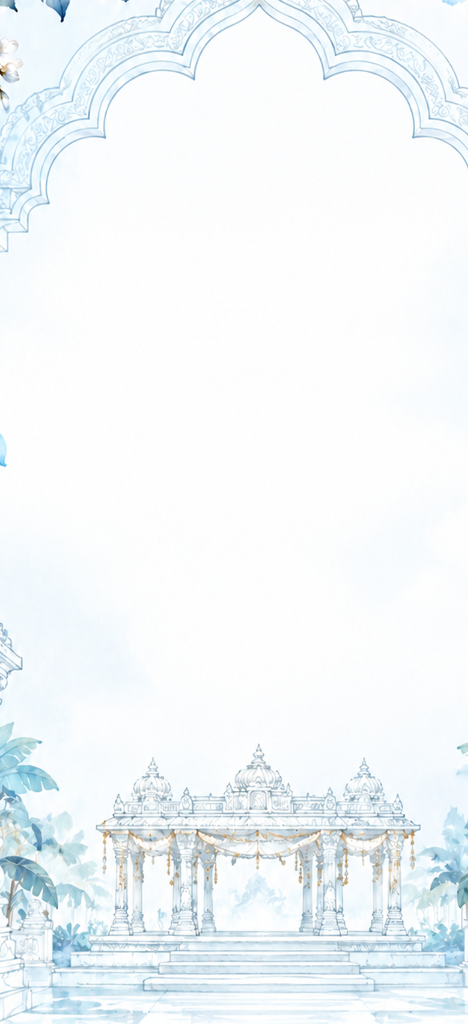
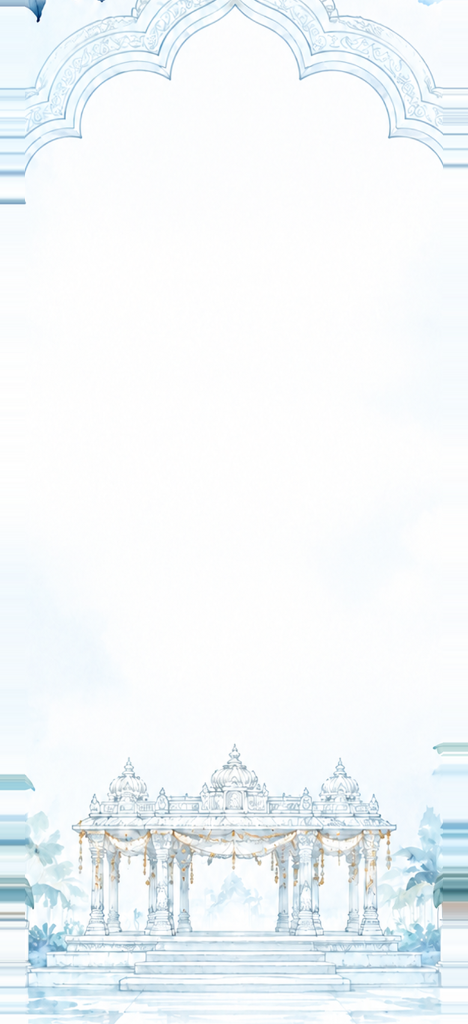
fix: center-align starting background image, elevate hands into middle white space, and position tap button in bottom circle

diff --git a/src/components/IntroFirstPage.tsx b/src/components/IntroFirstPage.tsx
@@ -29,7 +29,7 @@ export const IntroFirstPage: React.FC<IntroFirstPageProps> = ({ onOpen }) => {
         <img
           src="/assets/starting-page-mandap.png"
           alt="Temple Mandap Architecture & Arch"
-          className="w-full h-full object-fill sm:object-cover object-center"
+          className="w-full h-full object-cover object-center"
         />
       </div>
 
@@ -43,8 +43,8 @@ export const IntroFirstPage: React.FC<IntroFirstPageProps> = ({ onOpen }) => {
         <div className="absolute inset-0 bg-gradient-to-b from-[#F6F9FD]/30 via-transparent to-[#F6F9FD]/20 pointer-events-none" />
       </div>
 
-      {/* ── 2. TOP TYPOGRAPHY: WEDDING NAMES & DATE (DOWN IN WHITE SECTION) ── */}
-      <div className="relative z-20 pt-16 xs:pt-20 sm:pt-24 md:pt-16 px-4 flex flex-col items-center shrink-0">
+      {/* ── 2. TOP TYPOGRAPHY: WEDDING NAMES & DATE (IN UPPER ARCH WHITE SECTION) ── */}
+      <div className="relative z-20 pt-10 xs:pt-12 sm:pt-14 md:pt-16 px-4 flex flex-col items-center shrink-0">
         {/* Groom Name */}
         <h1 className="font-serif text-[38px] xs:text-[44px] sm:text-[54px] md:text-[76px] lg:text-[84px] font-normal md:font-medium tracking-tight text-[#162E5A] leading-none drop-shadow-xs">
           Hemanth
@@ -77,19 +77,19 @@ export const IntroFirstPage: React.FC<IntroFirstPageProps> = ({ onOpen }) => {
         </p>
       </div>
 
-      {/* ── 3. MIDDLE SECTION: HANDS & BUTTON (BUTTON LOWERED ON MOBILE) ── */}
-      <div className="md:hidden relative z-20 w-full flex-1 flex flex-col items-center justify-between pointer-events-none pb-8 xs:pb-10">
-        {/* Krishna & Radha Auspicious Hands extending edge-to-edge in white area */}
-        <div className="w-screen max-w-none select-none drop-shadow-md overflow-hidden flex items-center justify-center -mx-4 mt-auto mb-2">
+      {/* ── 3. MIDDLE SECTION: HANDS IN CENTER WHITE SPACE & BUTTON IN LOWER CIRCLE ── */}
+      <div className="md:hidden relative z-20 w-full flex-1 flex flex-col items-center justify-between pointer-events-none pb-10 xs:pb-12">
+        {/* Krishna & Radha Auspicious Hands elevated into middle white space */}
+        <div className="w-screen max-w-none select-none drop-shadow-md overflow-hidden flex items-center justify-center -mx-4 my-auto">
           <img
             src="/assets/krishna-radha-hands.png"
             alt="Divine Hands of Love & Companionship"
-            className="w-full min-w-[100vw] h-auto object-cover object-center scale-110"
+            className="w-full min-w-[100vw] h-auto object-cover object-center scale-105 xs:scale-110"
           />
         </div>
 
-        {/* TAP TO OPEN BUTTON brought lower towards mandap base */}
-        <div className="pointer-events-auto mt-2">
+        {/* TAP TO OPEN BUTTON positioned in lower circle above mandap steps */}
+        <div className="pointer-events-auto shrink-0 mb-2">
           <button
             onClick={handleTapToOpen}
             className="group relative inline-flex items-center justify-between gap-4 xs:gap-5 px-8 xs:px-10 py-3 xs:py-3.5 rounded-full bg-white text-[#152E5A] border-2 border-[#E5C378] shadow-[0_12px_36px_rgba(212,175,55,0.4),0_6px_16px_rgba(22,46,90,0.14)] hover:shadow-[0_16px_48px_rgba(212,175,55,0.55)] hover:scale-105 active:scale-95 transition-all duration-300 cursor-pointer"
